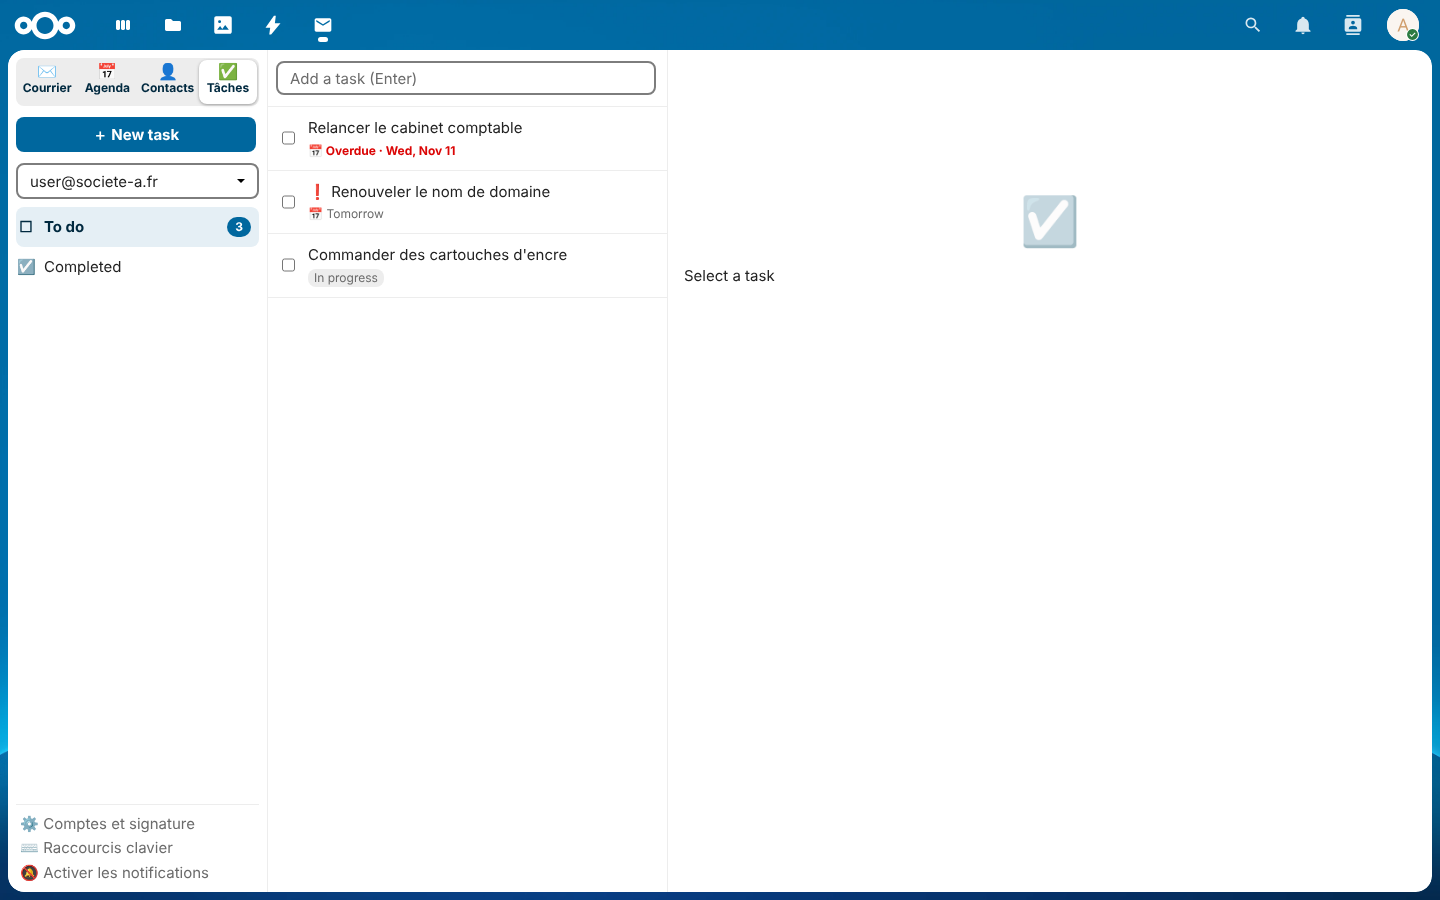
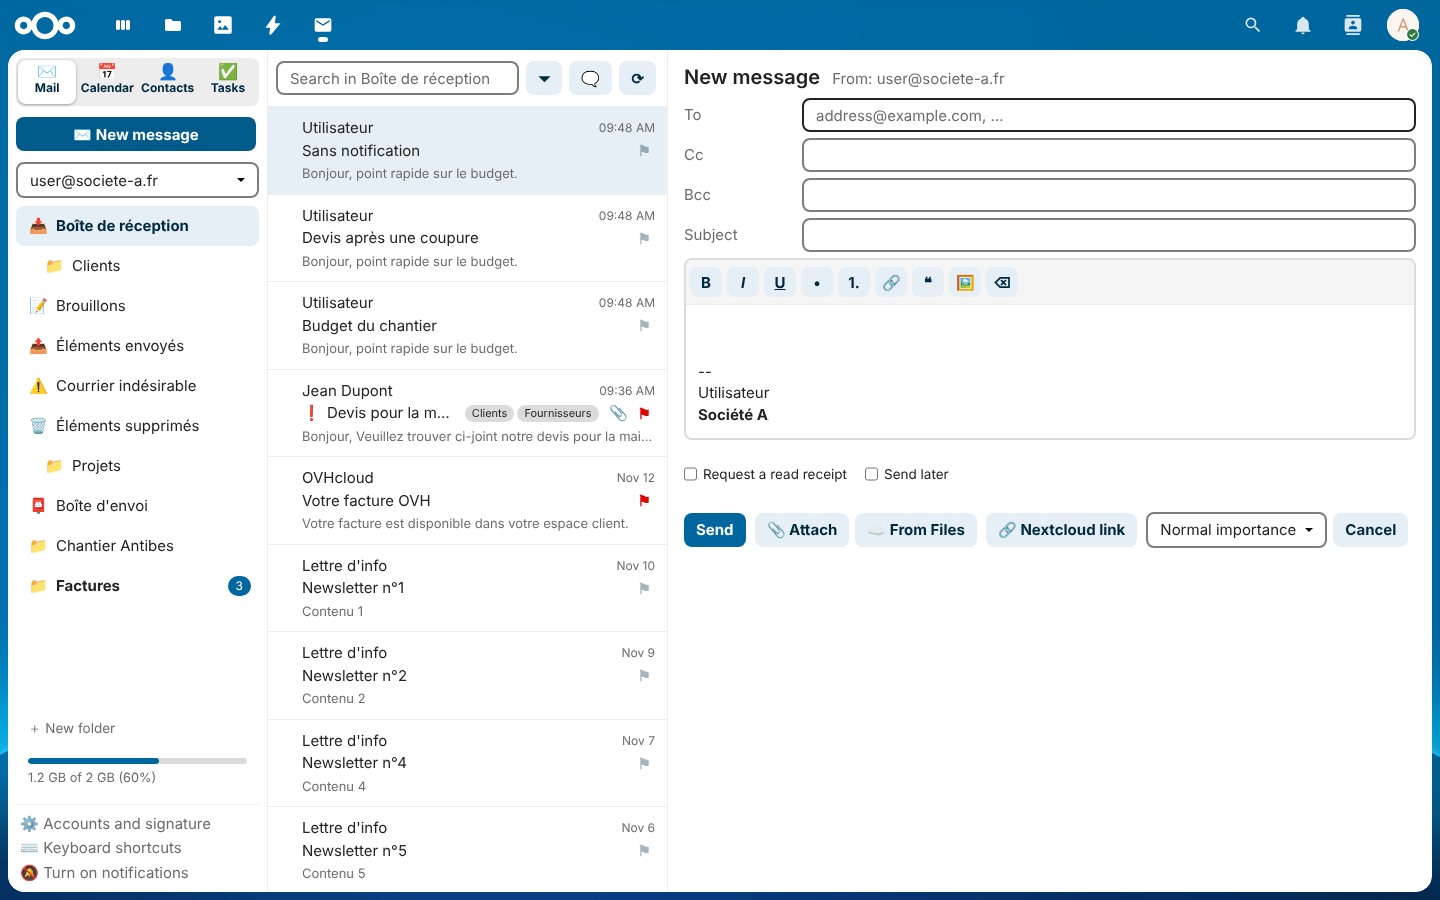
README : capture du courrier en anglais
Claude-Session: https://claude.ai/code/session_01GyNFUXEQZ1ks7ZShLRSKca

diff --git a/README.md b/README.md
@@ -353,7 +353,7 @@ make test
 
 Traductions : l'app est écrite en français ; chaque texte de la page passe par `_('…')` (la fonction `t` de Nextcloud), le texte français servant de clé (le fichier `fr` est vide, mais nécessaire : sans lui, Nextcloud chargerait l'anglais pour un compte en français). Les traductions sont dans `l10n/source/<langue>.json` (texte français → traduction) ; `php l10n/build.php` produit les fichiers que Nextcloud charge (`l10n/<langue>.js` et `.json`, `en` et `en_GB` pour l'anglais). La langue suivie est celle du compte Nextcloud (Paramètres personnels → Langue) :
 
-![Tâches en anglais](docs/capture-anglais.png)
+![Le courrier en anglais](docs/capture-anglais.png)
 
 Le test `L10nTest` vérifie que chaque texte a sa traduction et qu'il ne reste pas de texte français hors de `_()` dans les fichiers traduits.
 
